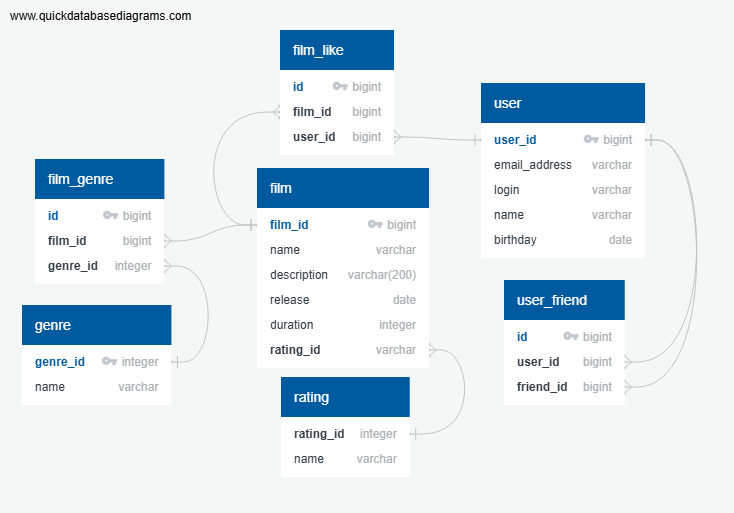
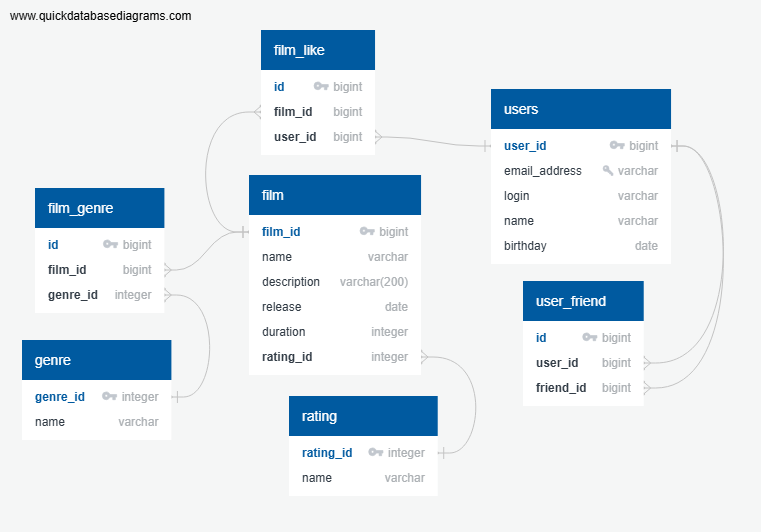
Исправление ER film.rating_id; rating.rating_id

diff --git a/README.md b/README.md
@@ -59,13 +59,13 @@ name varchar
 description varchar(200)
 release date
 duration integer
-rating_id varchar FK >- rating.rating_id
+rating_id integer FK >- rating.rating_id
 
 
-user
+users
 -
 user_id bigint PK
-email_address varchar
+email_address varchar UNIQUE
 login varchar
 name varchar
 birthday date
@@ -73,7 +73,7 @@ birthday date
 
 rating
 -
-rating_id integer
+rating_id integer PK
 name varchar
 
 
@@ -92,14 +92,14 @@ genre_id integer FK >- genre.genre_id
 user_friend
 -
 id bigint PK
-user_id bigint FK >- user.user_id
-friend_id bigint FK >- user.user_id
+user_id bigint FK >- users.user_id
+friend_id bigint FK >- users.user_id
 
 
 film_like
 -
 id bigint PK
 film_id bigint FK >- film.film_id
-user_id bigint FK >- user.user_id
+user_id bigint FK >- users.user_id
 ```
 
